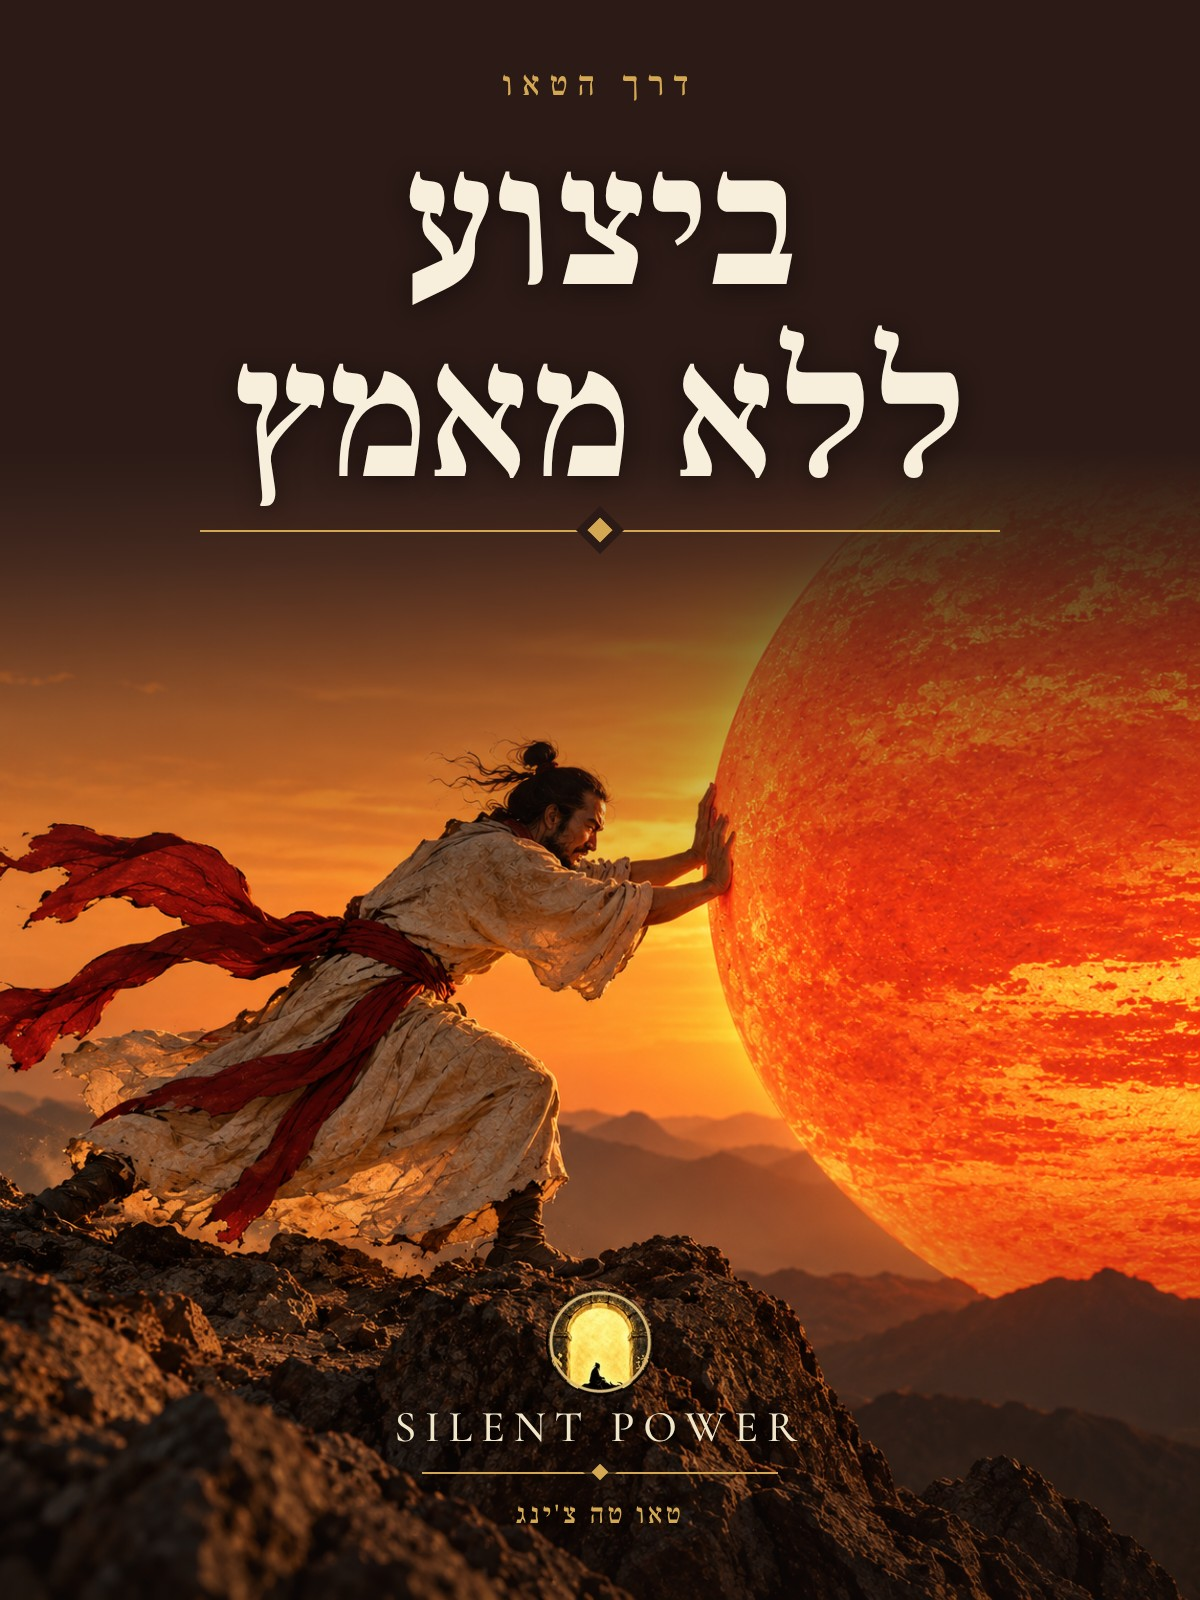
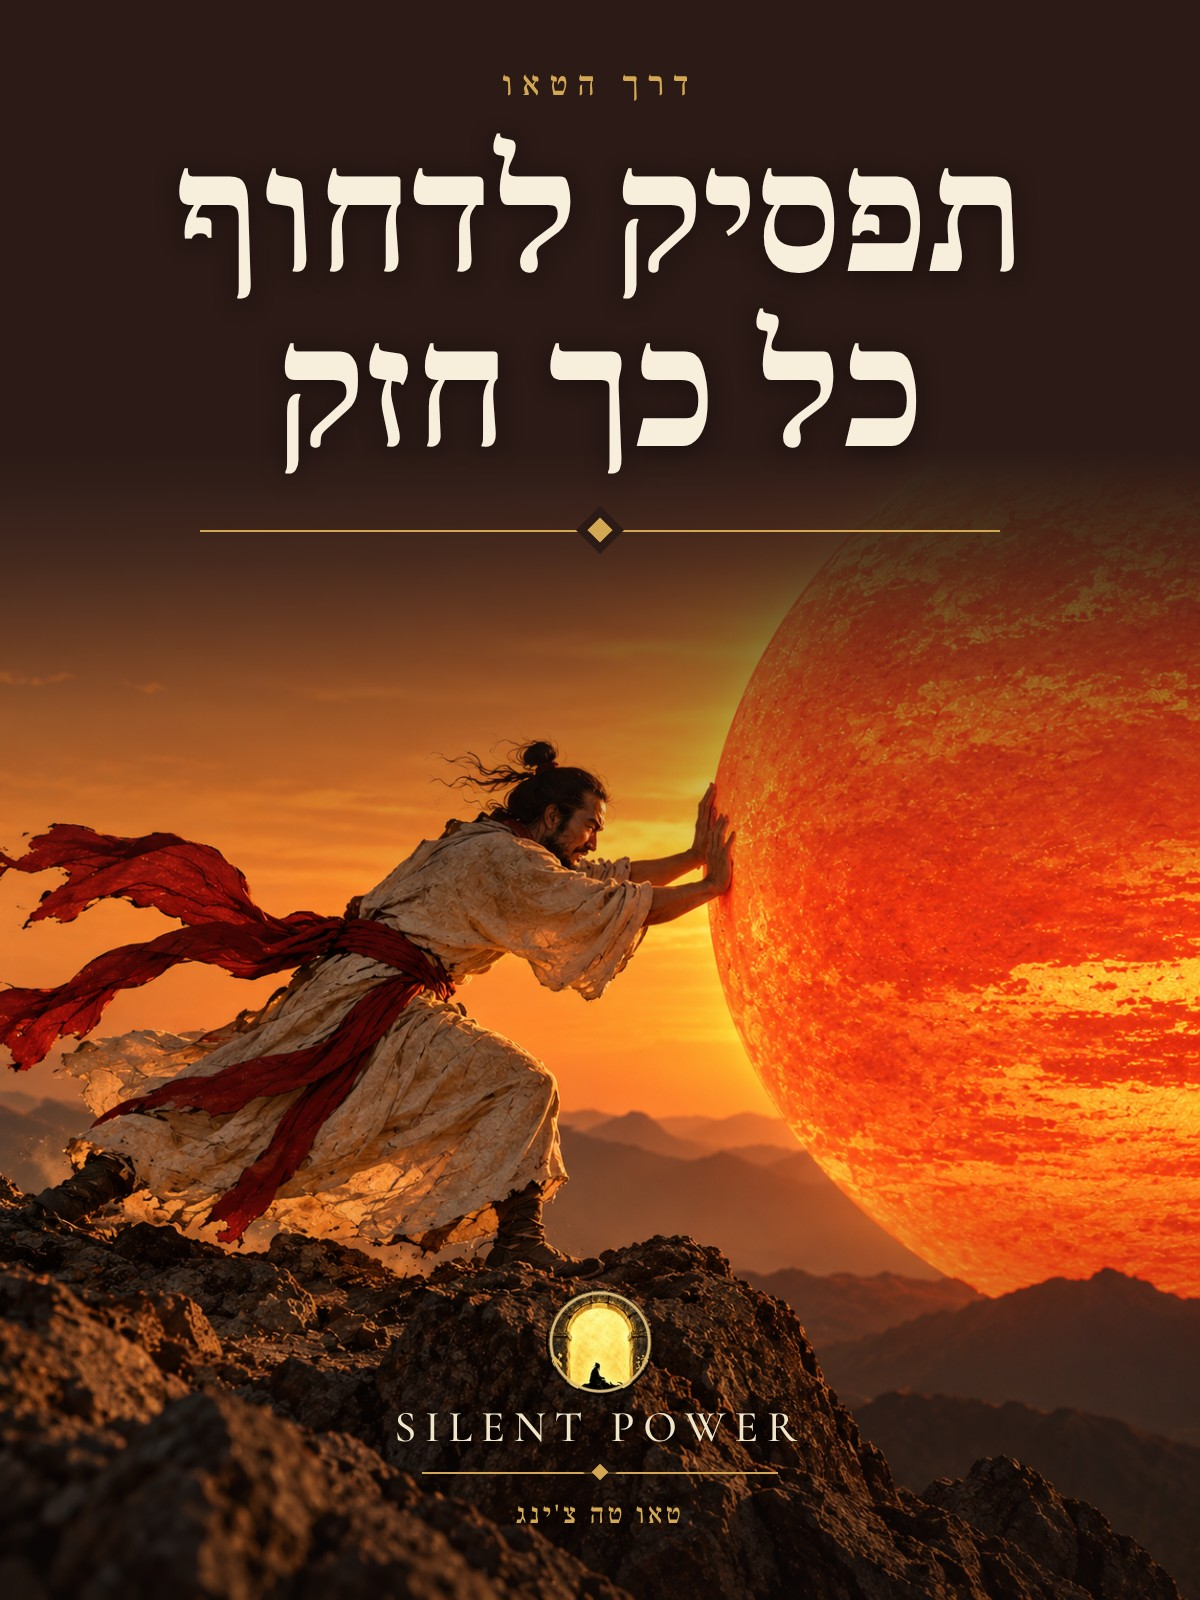
Hebrew products: names and covers mirror the English titles
Claude-Session: https://claude.ai/code/session_01KMDhiMT5LuwpbVUB7yvckg

Changed region(s): [[0.1542, 0.0625, 0.8633, 0.3125]]

diff --git a/src/content/products/frictionless-he.md b/src/content/products/frictionless-he.md
@@ -1,5 +1,5 @@
 ---
-title: "המערכת ללא חיכוך"
+title: "הסוד הטאואיסטי להיות בלתי מתערער"
 language: he
 category: hebrew
 kind: book
@@ -30,4 +30,4 @@ included:
 ---
 אתה כבר יודע לדחוף. ניסית את היומנים, את האפליקציות, את השכמות בחמש בבוקר. כל שיטה ביקשה ממך עוד: עוד משמעת, עוד כוח רצון, עוד כוח.
 
-המערכת ללא חיכוך הופכת את הרעיון של לאו־דזה לתרגול יומיומי.
+הספר הזה הופך את הרעיון של לאו־דזה לתרגול יומיומי.

diff --git a/src/content/products/effortless-he.md b/src/content/products/effortless-he.md
@@ -1,5 +1,5 @@
 ---
-title: "ביצוע ללא מאמץ"
+title: "דרך הטאו: תפסיק לדחוף כל כך חזק"
 language: he
 category: hebrew
 kind: guide
